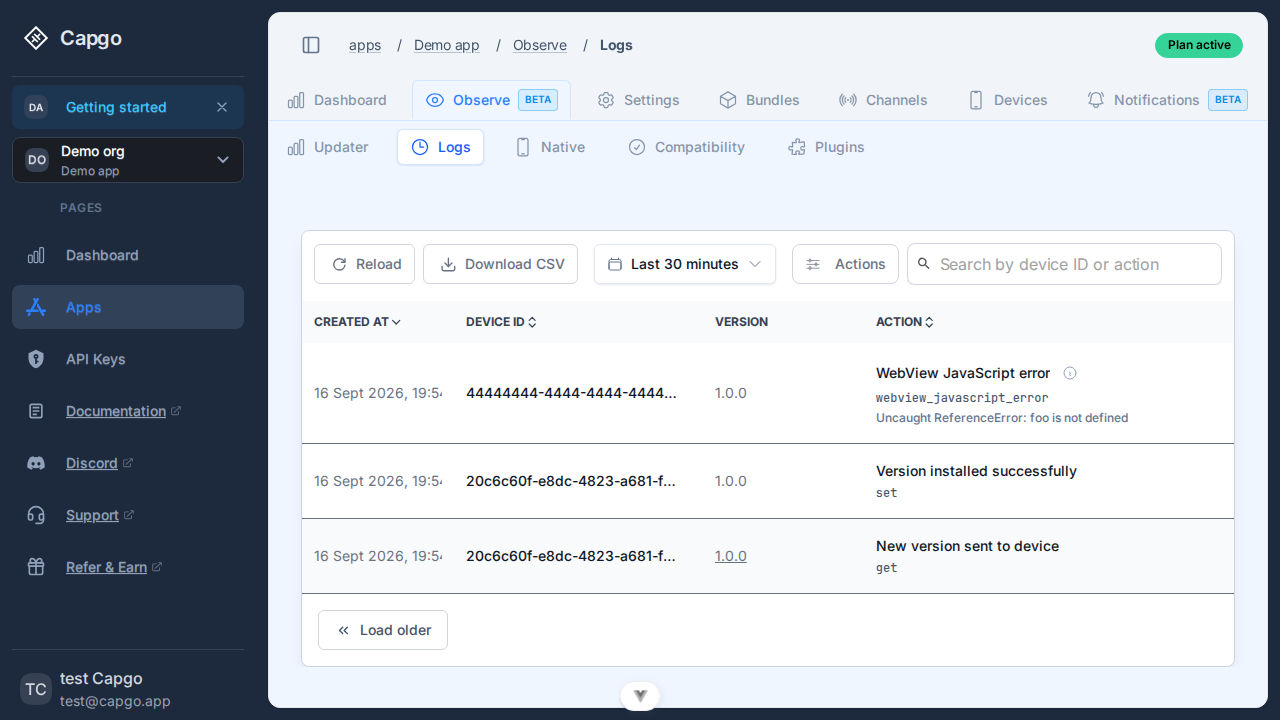
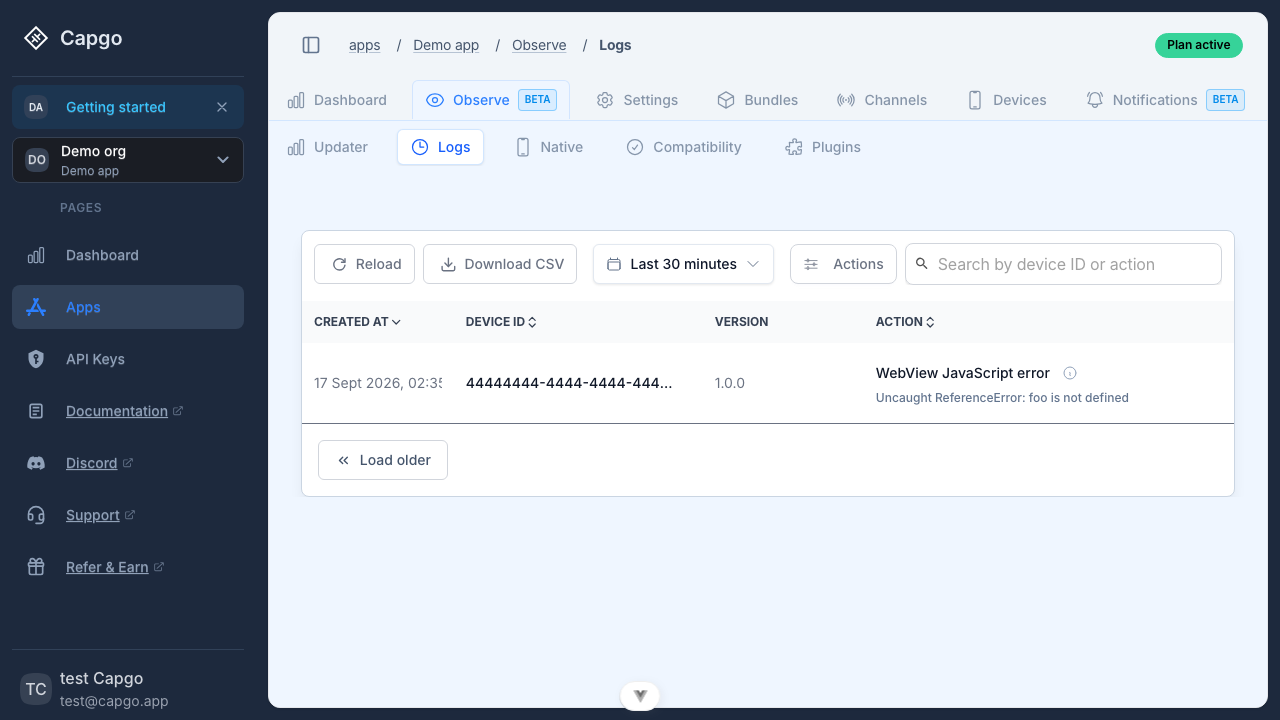
fix(frontend): show log action keys on hover, drop name/key toggle
Operators asked for the translated name by default and the stats_action key only on hover, not a toolbar switch or a second always-visible code line.

diff --git a/src/components/tables/LogTable.vue b/src/components/tables/LogTable.vue
@@ -1,8 +1,7 @@
 <script setup lang="ts">
 import type { Ref } from 'vue'
 import type { TableColumn } from '../comp_def'
-import type { LogActionLabelMode } from '~/services/logTableDisplay'
-import { useDebounceFn, useStorage } from '@vueuse/core'
+import { useDebounceFn } from '@vueuse/core'
 import { computed, h, onMounted, ref, watch } from 'vue'
 import { useI18n } from 'vue-i18n'
 import { useRoute, useRouter } from 'vue-router'
@@ -11,7 +10,7 @@ import LogMetadataPopover from '~/components/tables/LogMetadataPopover.vue'
 import { formatDate } from '~/services/date'
 import { getDateRangeForPreset, getTimeWindowPageRange, TABLE_DATE_RANGE_DEFAULT } from '~/services/dateRange'
 import { getLogDocUrl } from '~/services/logDocLinks'
-import { extractLogOriginalMessage, formatLogActionLinkTitle, logRowDisplayMetadata, parseLogVersionName, resolveLogActionPrimaryLabel, shouldShowLogActionCodeLine } from '~/services/logTableDisplay'
+import { extractLogOriginalMessage, logRowDisplayMetadata, parseLogVersionName } from '~/services/logTableDisplay'
 import { actionToFilter, createActionFilterState, failureActionFilterKeys, filterToAction, observeActionFilterKeys, updateActionFilterKeys } from '~/services/statsActions'
 import { defaultApiHost, useSupabase } from '~/services/supabase'
 
@@ -43,7 +42,6 @@ const router = useRouter()
 const route = useRoute()
 const { t } = useI18n()
 const supabase = useSupabase()
-const actionLabelMode = useStorage<LogActionLabelMode>('capgo-log-action-label-mode', 'name')
 const search = ref('')
 const elements = ref<Element[]>([])
 const isLoading = ref(false)
@@ -311,47 +309,42 @@ columns.value = [
     sortable: true,
     head: true,
     renderFunction: (elem: Element) => {
-      const mode = actionLabelMode.value
       const actionLabel = formatAction(elem)
-      const primaryLabel = resolveLogActionPrimaryLabel(elem.action, actionLabel, mode)
+      const actionKey = elem.action
       const metadata = logRowDisplayMetadata(elem.version_name, elem.metadata)
       const originalMessage = extractLogOriginalMessage(elem.metadata)
-      const linkTitle = formatLogActionLinkTitle(elem.action, actionLabel, elem.metadata)
-      const showActionCode = shouldShowLogActionCodeLine(elem.action, actionLabel, mode)
-      const secondaryLines = [
-        showActionCode
-          ? h('span', {
-              'class': 'block min-w-0 break-all font-mono text-xs text-slate-600 dark:text-slate-400',
-              'title': elem.action,
-              'data-test': 'log-row-action-code',
-            }, elem.action)
-          : null,
+      const showKeyOnHover = actionLabel !== actionKey
+      return h('div', { class: 'flex w-full min-w-0 flex-col gap-0.5' }, [
+        h('div', { class: 'flex min-w-0 items-center gap-1.5' }, [
+          h('a', {
+            'href': getLogDocUrl(actionKey),
+            'target': '_blank',
+            'rel': 'noopener noreferrer',
+            'title': actionKey,
+            'class': 'group block min-w-0 truncate font-medium hover:underline',
+            'data-test': 'log-row-action',
+          }, [
+            h('span', {
+              'class': showKeyOnHover ? 'group-hover:hidden group-focus-visible:hidden' : undefined,
+              'data-test': 'log-row-action-name',
+            }, actionLabel),
+            showKeyOnHover
+              ? h('span', {
+                  'class': 'hidden font-mono group-hover:inline group-focus-visible:inline',
+                  'data-test': 'log-row-action-key',
+                }, actionKey)
+              : null,
+          ]),
+          metadata
+            ? h(LogMetadataPopover, { json: JSON.stringify(metadata, null, 2) })
+            : null,
+        ]),
         originalMessage
           ? h('span', {
               'class': 'block min-w-0 break-all text-xs text-slate-500 dark:text-slate-400',
               'title': originalMessage,
               'data-test': 'log-row-original-error',
             }, originalMessage)
-          : null,
-      ].filter(Boolean)
-      return h('div', { class: 'flex w-full min-w-0 flex-col gap-0.5' }, [
-        h('div', { class: 'flex min-w-0 items-center gap-1.5' }, [
-          h('a', {
-            'href': getLogDocUrl(elem.action),
-            'target': '_blank',
-            'rel': 'noopener noreferrer',
-            'title': linkTitle,
-            'class': mode === 'key'
-              ? 'min-w-0 truncate font-mono text-sm font-medium hover:underline'
-              : 'min-w-0 truncate font-medium hover:underline',
-            'data-test': 'log-row-action',
-          }, primaryLabel),
-          metadata
-            ? h(LogMetadataPopover, { json: JSON.stringify(metadata, null, 2) })
-            : null,
-        ]),
-        secondaryLines.length
-          ? h('div', { class: 'flex min-w-0 flex-col gap-0.5' }, secondaryLines)
           : null,
       ])
     },
@@ -447,38 +440,6 @@ watch(range, async () => {
       :app-id="props.appId ?? ''"
       :search-placeholder="deviceId ? t('search-by-device-id-0') : t('search-by-device-id-')"
       @reload="loadOlder()" @reset="refreshData()" @export="exportCsv()"
-    >
-      <template #toolbar-extra>
-        <fieldset class="mr-2 flex h-10 items-center rounded-md border border-gray-300 bg-white p-0.5 dark:border-gray-600 dark:bg-gray-800">
-          <legend class="sr-only">
-            {{ t('logs-action-label-mode') }}
-          </legend>
-          <button
-            type="button"
-            class="d-btn d-btn-sm h-9 min-h-9 border-0 px-2.5 text-xs font-semibold shadow-none"
-            :class="actionLabelMode === 'name'
-              ? 'bg-azure-500 text-white hover:bg-azure-600'
-              : 'bg-transparent text-gray-600 hover:bg-gray-100 dark:text-gray-300 dark:hover:bg-gray-700'"
-            :aria-pressed="actionLabelMode === 'name'"
-            data-test="log-action-label-mode-name"
-            @click="actionLabelMode = 'name'"
-          >
-            {{ t('logs-action-label-mode-name') }}
-          </button>
-          <button
-            type="button"
-            class="d-btn d-btn-sm h-9 min-h-9 border-0 px-2.5 text-xs font-semibold shadow-none"
-            :class="actionLabelMode === 'key'
-              ? 'bg-azure-500 text-white hover:bg-azure-600'
-              : 'bg-transparent text-gray-600 hover:bg-gray-100 dark:text-gray-300 dark:hover:bg-gray-700'"
-            :aria-pressed="actionLabelMode === 'key'"
-            data-test="log-action-label-mode-key"
-            @click="actionLabelMode = 'key'"
-          >
-            {{ t('logs-action-label-mode-key') }}
-          </button>
-        </fieldset>
-      </template>
-    </TableLog>
+    />
   </div>
 </template>

diff --git a/playwright/e2e/log-row-original-error-screenshot.spec.ts b/playwright/e2e/log-row-original-error-screenshot.spec.ts
@@ -8,42 +8,65 @@ const screenshotDir = resolve(process.cwd(), 'docs/pr-screenshots')
 
 test.describe('PR screenshot — logs original error', () => {
   test.beforeEach(async ({ page }) => {
-    await page.addInitScript(() => {
-      localStorage.setItem('capgo-log-action-label-mode', 'name')
+    await page.route('**/private/sso/check-enforcement', async (route) => {
+      await route.fulfill({
+        status: 200,
+        contentType: 'application/json',
+        body: JSON.stringify({ allowed: true }),
+      })
     })
     await page.login('test@capgo.app', 'testtest')
   })
 
-  test('capture observe logs in name and key action label modes', async ({ page }) => {
+  test('capture observe logs translated name and hover key', async ({ page }) => {
     mkdirSync(screenshotDir, { recursive: true })
+    const originalError = 'Uncaught ReferenceError: foo is not defined'
+    const now = new Date().toISOString()
+
+    await page.route('**/private/stats', async (route) => {
+      if (route.request().method() !== 'POST') {
+        await route.continue()
+        return
+      }
+      await route.fulfill({
+        status: 200,
+        contentType: 'application/json',
+        body: JSON.stringify([
+          {
+            app_id: 'com.demo.app',
+            device_id: '44444444-4444-4444-4444-444444444444',
+            action: 'webview_javascript_error',
+            version_name: '1.0.0',
+            created_at: now,
+            metadata: {
+              error_type: 'javascript_error',
+              message: originalError,
+              href: 'capacitor://localhost/index.html',
+            },
+          },
+        ]),
+      })
+    })
 
     await page.goto('/app/com.demo.app/observe/logs')
     await dismissSupportPrompt(page)
 
     const row = page.locator('#custom_table tbody tr', { hasText: '44444444' })
-    await expect(page.locator('[data-test="log-action-label-mode-name"]')).toHaveAttribute('aria-pressed', 'true')
+    const action = row.locator('[data-test="log-row-action"]')
 
-    await expect(row.locator('[data-test="log-row-action"]')).toHaveText('WebView JavaScript error')
-    await expect(row.locator('[data-test="log-row-action-code"]')).toHaveText('webview_javascript_error')
-    await expect(row.locator('[data-test="log-row-original-error"]')).toHaveText('Uncaught ReferenceError: foo is not defined')
-
-    await row.scrollIntoViewIfNeeded()
-    await page.screenshot({ path: resolve(screenshotDir, 'logs-table-action-label-name-mode.png'), fullPage: false })
-    await row.screenshot({ path: resolve(screenshotDir, 'logs-table-action-label-name-mode-row.png') })
-
-    await page.locator('[data-test="log-action-label-mode-key"]').click()
-    await expect(page.locator('[data-test="log-action-label-mode-key"]')).toHaveAttribute('aria-pressed', 'true')
-    await expect(row.locator('[data-test="log-row-action"]')).toHaveText('webview_javascript_error')
-    await expect(row.locator('[data-test="log-row-action-code"]')).toHaveCount(0)
-    await expect(row.locator('[data-test="log-row-original-error"]')).toHaveText('Uncaught ReferenceError: foo is not defined')
+    await expect(action.locator('[data-test="log-row-action-name"]')).toHaveText('WebView JavaScript error')
+    await expect(action.locator('[data-test="log-row-action-key"]')).toBeHidden()
+    await expect(row.locator('[data-test="log-row-original-error"]')).toHaveText(originalError)
 
     await row.scrollIntoViewIfNeeded()
-    await page.screenshot({ path: resolve(screenshotDir, 'logs-table-action-label-key-mode.png'), fullPage: false })
-    await row.screenshot({ path: resolve(screenshotDir, 'logs-table-action-label-key-mode-row.png') })
+    await page.screenshot({ path: resolve(screenshotDir, 'logs-table-original-error.png'), fullPage: false })
+    await row.screenshot({ path: resolve(screenshotDir, 'logs-table-original-error-row.png') })
 
-    await expect(row.locator('[data-test="log-row-action"]')).toHaveAttribute(
-      'title',
-      /webview_javascript_error/,
-    )
+    await action.hover()
+    await expect(action.locator('[data-test="log-row-action-name"]')).toBeHidden()
+    await expect(action.locator('[data-test="log-row-action-key"]')).toHaveText('webview_javascript_error')
+
+    await page.screenshot({ path: resolve(screenshotDir, 'logs-table-action-hover-key.png'), fullPage: false })
+    await row.screenshot({ path: resolve(screenshotDir, 'logs-table-action-hover-key-row.png') })
   })
 })

diff --git a/tests/log-table-display.unit.test.ts b/tests/log-table-display.unit.test.ts
@@ -1,5 +1,6 @@
+import type { LogMetadata } from '~/services/logTableDisplay'
 import { describe, expect, it } from 'vitest'
-import { extractLogOriginalMessage, formatLogActionLinkTitle, logRowDisplayMetadata, parseLogVersionName, resolveLogActionPrimaryLabel, shouldShowLogActionCode, shouldShowLogActionCodeLine, type LogMetadata } from '~/services/logTableDisplay'
+import { extractLogOriginalMessage, logRowDisplayMetadata, parseLogVersionName } from '~/services/logTableDisplay'
 
 describe('parseLogVersionName', () => {
   it.concurrent('keeps a plain version unchanged', () => {
@@ -70,50 +71,5 @@ describe('extractLogOriginalMessage', () => {
     expect(extractLogOriginalMessage({ message: { text: 'boom' } } as unknown as LogMetadata)).toBeNull()
     expect(extractLogOriginalMessage({ error: 404 } as unknown as LogMetadata)).toBeNull()
     expect(extractLogOriginalMessage({ reason: 'ok', error: 404 } as unknown as LogMetadata)).toBe('ok')
-  })
-})
-
-describe('shouldShowLogActionCode', () => {
-  it.concurrent('shows code when label is translated', () => {
-    expect(shouldShowLogActionCode('webview_javascript_error', 'WebView JavaScript error')).toBe(true)
-  })
-
-  it.concurrent('hides duplicate code when label equals action', () => {
-    expect(shouldShowLogActionCode('notify_app_ready', 'notify_app_ready')).toBe(false)
-  })
-})
-
-describe('resolveLogActionPrimaryLabel', () => {
-  it.concurrent('uses friendly name in name mode', () => {
-    expect(resolveLogActionPrimaryLabel('webview_javascript_error', 'WebView JavaScript error', 'name')).toBe('WebView JavaScript error')
-  })
-
-  it.concurrent('uses canonical key in key mode', () => {
-    expect(resolveLogActionPrimaryLabel('webview_javascript_error', 'WebView JavaScript error', 'key')).toBe('webview_javascript_error')
-  })
-})
-
-describe('shouldShowLogActionCodeLine', () => {
-  it.concurrent('shows secondary code line only in name mode when translated', () => {
-    expect(shouldShowLogActionCodeLine('webview_javascript_error', 'WebView JavaScript error', 'name')).toBe(true)
-    expect(shouldShowLogActionCodeLine('webview_javascript_error', 'WebView JavaScript error', 'key')).toBe(false)
-  })
-})
-
-describe('formatLogActionLinkTitle', () => {
-  it.concurrent('includes translated label, action code, and original message', () => {
-    expect(formatLogActionLinkTitle(
-      'webview_javascript_error',
-      'WebView JavaScript error',
-      { message: 'boom' },
-    )).toBe('WebView JavaScript error\nwebview_javascript_error\nboom')
-  })
-
-  it.concurrent('omits duplicate label when action is not translated', () => {
-    expect(formatLogActionLinkTitle(
-      'custom_unknown_action',
-      'custom_unknown_action',
-      { reason: 'denied' },
-    )).toBe('custom_unknown_action\ndenied')
   })
 })

diff --git a/playwright/e2e/observe-tabs.spec.ts b/playwright/e2e/observe-tabs.spec.ts
@@ -181,7 +181,7 @@ test.describe('Observe sections', () => {
     const compositeVersion = '2.36.2+8ebc69:assets/index-8ebc69aabbcc.js'
     await expect(longVersionRow.locator('[data-test="log-row-version"]')).toHaveText(longVersion)
     await expect(longVersionRow.locator('[data-test="log-row-version"]')).toHaveAttribute('title', longVersion)
-    await expect(longVersionRow.locator('[data-test="log-row-action"]')).toHaveText('Update process failed')
+    await expect(longVersionRow.locator('[data-test="log-row-action-name"]')).toHaveText('Update process failed')
     await expect(longVersionRow.locator('[data-test="log-row-metadata"]')).toHaveCount(0)
 
     const versionBox = await longVersionRow.locator('[data-test="log-row-version"]').boundingBox()
@@ -238,18 +238,16 @@ test.describe('Observe sections', () => {
 
     await page.goto('/app/com.demo.app/observe/logs')
     const row = page.locator('#custom_table tbody tr', { hasText: '44444444' })
-    await expect(row.locator('[data-test="log-row-action"]')).toHaveText('WebView JavaScript error')
-    await expect(row.locator('[data-test="log-row-action-code"]')).toHaveText('webview_javascript_error')
+    const action = row.locator('[data-test="log-row-action"]')
+    await expect(action.locator('[data-test="log-row-action-name"]')).toHaveText('WebView JavaScript error')
+    await expect(action.locator('[data-test="log-row-action-key"]')).toBeHidden()
+    await expect(action).toHaveAttribute('title', 'webview_javascript_error')
     await expect(row.locator('[data-test="log-row-original-error"]')).toHaveText(originalError)
-    await expect(row.locator('[data-test="log-row-action"]')).toHaveAttribute(
-      'title',
-      `WebView JavaScript error\nwebview_javascript_error\n${originalError}`,
-    )
     await expect(row.locator('[data-test="log-row-metadata"]')).toHaveCount(1)
 
-    await page.locator('[data-test="log-action-label-mode-key"]').click()
-    await expect(row.locator('[data-test="log-row-action"]')).toHaveText('webview_javascript_error')
-    await expect(row.locator('[data-test="log-row-action-code"]')).toHaveCount(0)
+    await action.hover()
+    await expect(action.locator('[data-test="log-row-action-name"]')).toBeHidden()
+    await expect(action.locator('[data-test="log-row-action-key"]')).toHaveText('webview_javascript_error')
     await expect(row.locator('[data-test="log-row-original-error"]')).toHaveText(originalError)
   })
 })

diff --git a/src/services/logTableDisplay.ts b/src/services/logTableDisplay.ts
@@ -76,43 +76,3 @@ export function extractLogOriginalMessage(metadata: LogMetadata): string | null 
 
   return null
 }
-
-export type LogActionLabelMode = 'name' | 'key'
-
-/** Show canonical stats_action under the friendly label when they differ. */
-export function shouldShowLogActionCode(action: string, translatedLabel: string): boolean {
-  return translatedLabel !== action
-}
-
-export function resolveLogActionPrimaryLabel(
-  action: string,
-  translatedLabel: string,
-  mode: LogActionLabelMode,
-): string {
-  return mode === 'key' ? action : translatedLabel
-}
-
-export function shouldShowLogActionCodeLine(
-  action: string,
-  translatedLabel: string,
-  mode: LogActionLabelMode,
-): boolean {
-  return mode === 'name' && shouldShowLogActionCode(action, translatedLabel)
-}
-
-export function formatLogActionLinkTitle(
-  action: string,
-  translatedLabel: string,
-  metadata: LogMetadata,
-): string {
-  const original = extractLogOriginalMessage(metadata)
-  const lines: string[] = []
-
-  if (translatedLabel && translatedLabel !== action)
-    lines.push(translatedLabel)
-  lines.push(action)
-  if (original)
-    lines.push(original)
-
-  return lines.join('\n')
-}

diff --git a/src/components/TableLog.vue b/src/components/TableLog.vue
@@ -312,9 +312,6 @@ onMounted(() => {
 <template>
   <div class="pb-4 md:pb-0">
     <div class="flex flex-wrap items-start justify-between gap-2 p-3 pb-4 overflow-visible md:items-center md:flex-nowrap">
-      <div v-if="$slots['toolbar-extra']" class="flex h-10 shrink-0 items-center md:mb-0">
-        <slot name="toolbar-extra" />
-      </div>
       <div class="flex h-10 shrink-0 md:mb-0">
         <button class="inline-flex items-center py-1.5 px-3 mr-2 text-sm font-medium text-gray-500 bg-white rounded-md border border-gray-300 dark:text-white dark:bg-gray-800 dark:border-gray-600 hover:bg-gray-100 focus:ring-4 focus:ring-gray-200 dark:hover:border-gray-600 dark:hover:bg-gray-700 dark:focus:ring-gray-700 focus:outline-hidden" type="button" @click="reloadData">
           <IconReload v-if="!isLoading" class="m-1 md:mr-2" />
